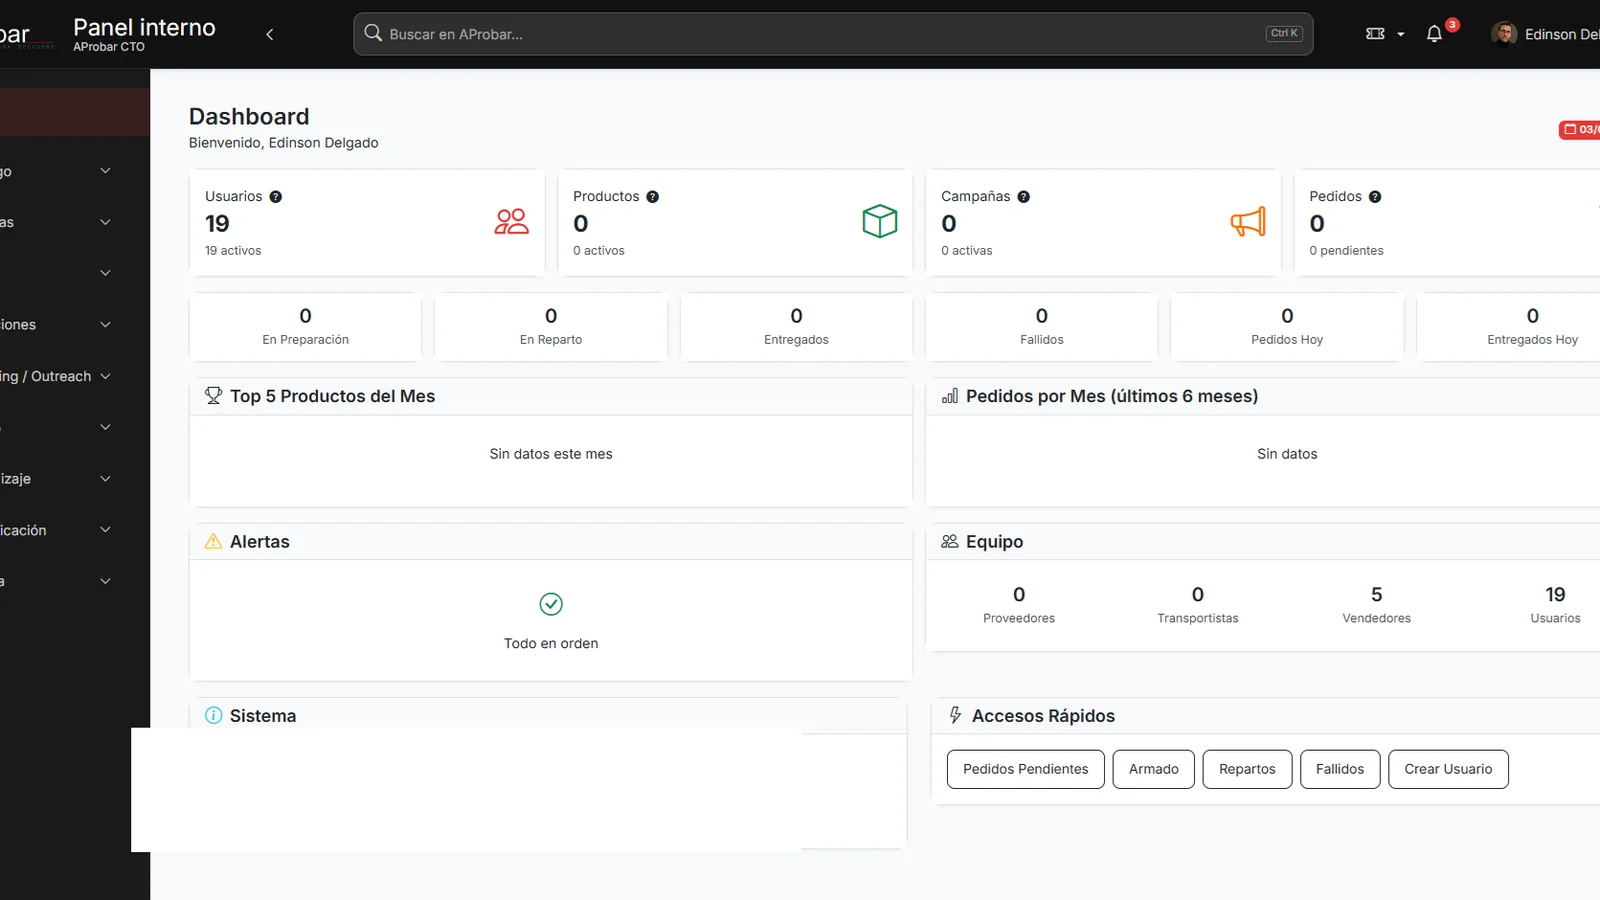
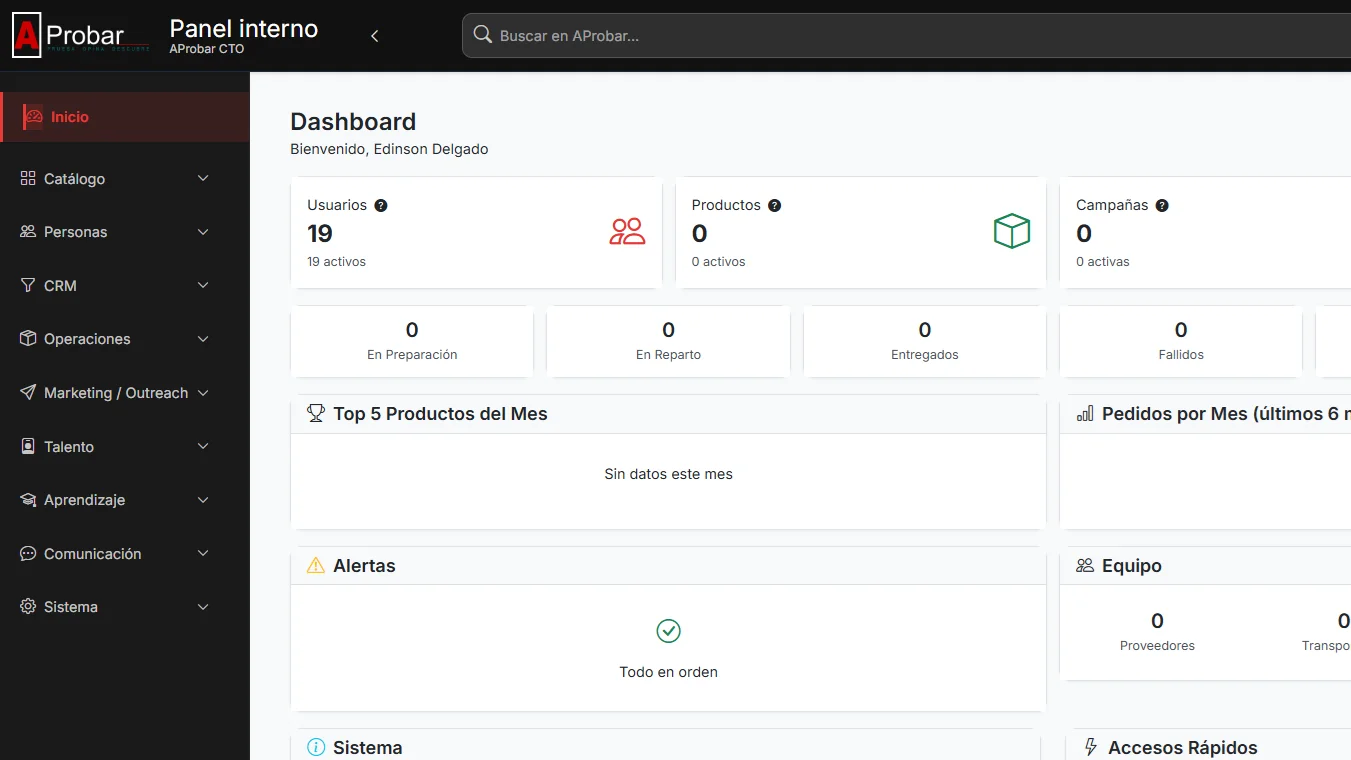
fix: portadas en inicio y fuentes fuera de public
Muestra cover en la home, ajusta dimensiones reales sin upscale y
excluye PNG fuente del deploy para no filtrar datos sensibles.

diff --git a/tests/routes.test.ts b/tests/routes.test.ts
@@ -93,6 +93,36 @@ describe('critical routes', () => {
     assert.match(html, /alt="Logo de Sofis Solutions"/);
   });
 
+  it('project covers are published without personal email or deploy metadata', () => {
+    const covers = [
+      join(dist, 'images', 'projects', 'aprobar-cover.webp'),
+      join(dist, 'images', 'projects', 'clicks-cover.webp'),
+      join(dist, 'images', 'projects', 'colmena-cover.webp'),
+    ];
+    for (const file of covers) {
+      assert.ok(existsSync(file), `missing ${file}`);
+      const bytes = readFileSync(file);
+      assert.equal(bytes.includes(Buffer.from('it.edelgado@gmail.com')), false);
+      assert.equal(bytes.includes(Buffer.from('commercial-email')), false);
+      assert.equal(bytes.includes(Buffer.from('release/')), false);
+    }
+    assert.ok(!existsSync(join(dist, 'images', 'projects', 'aprobar-cover.png')));
+    assert.ok(!existsSync(join(dist, 'images', 'projects', 'clicks-cover.png')));
+    assert.ok(!existsSync(join(dist, 'images', 'projects', 'colmena-cover.png')));
+
+    const home = readFileSync(join(dist, 'index.html'), 'utf8');
+    assert.match(home, /\/images\/projects\/aprobar-cover\.webp/);
+    assert.match(home, /\/images\/projects\/clicks-cover\.webp/);
+    assert.match(home, /\/images\/projects\/colmena-cover\.webp/);
+    assert.match(
+      home,
+      /Panel de administración de AProbar con módulos empresariales y métricas operativas/,
+    );
+
+    const caseHtml = readFileSync(join(dist, 'proyectos', 'aprobar', 'index.html'), 'utf8');
+    assert.match(caseHtml, /\/images\/projects\/aprobar-cover\.webp/);
+  });
+
   it('contact availability without duplicated label text', () => {
     const html = readFileSync(join(dist, 'contacto', 'index.html'), 'utf8');
     assert.match(

diff --git a/src/content/projects/aprobar.md b/src/content/projects/aprobar.md
@@ -4,8 +4,8 @@ summary: Plataforma de muestreo de productos e inteligencia del consumidor.
 cover:
   src: /images/projects/aprobar-cover.webp
   alt: Panel de administración de AProbar con módulos empresariales y métricas operativas
-  width: 1600
-  height: 900
+  width: 1351
+  height: 760
 logo:
   src: /images/projects/aprobar-gray.png
   alt: Logo de AProbar

diff --git a/src/content/projects/clicks.md b/src/content/projects/clicks.md
@@ -4,8 +4,8 @@ summary: Gestión de mantenimiento en campo desde dispositivos móviles.
 cover:
   src: /images/projects/clicks-cover.webp
   alt: Panel de operaciones de ClickS con trabajos, operarios y estado de mantenimiento
-  width: 1600
-  height: 900
+  width: 1458
+  height: 820
 logo:
   src: /images/projects/clicks-gray.png
   alt: Logo de ClickS
